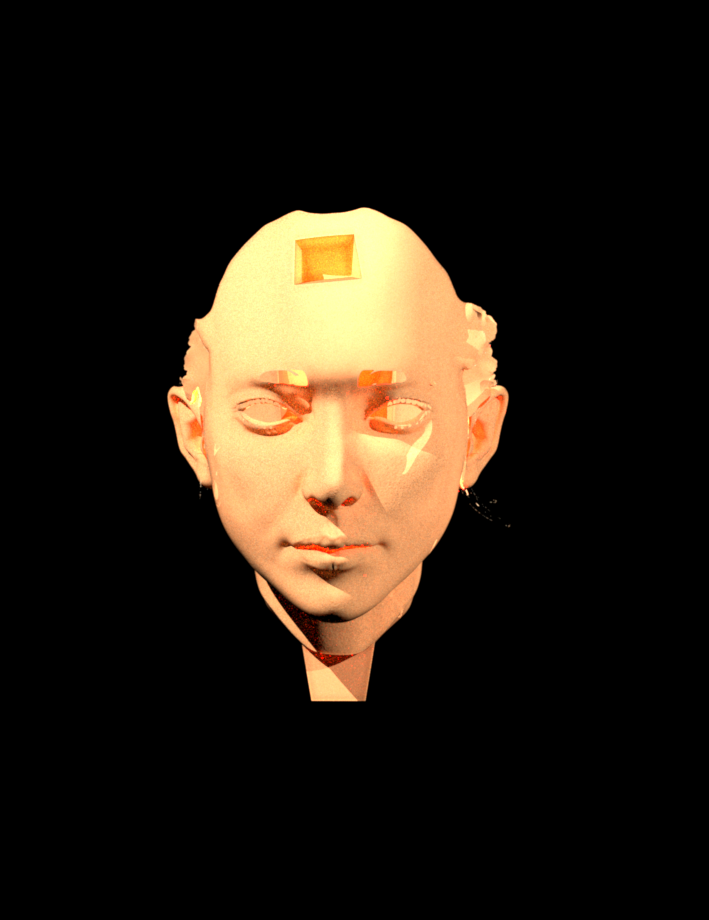
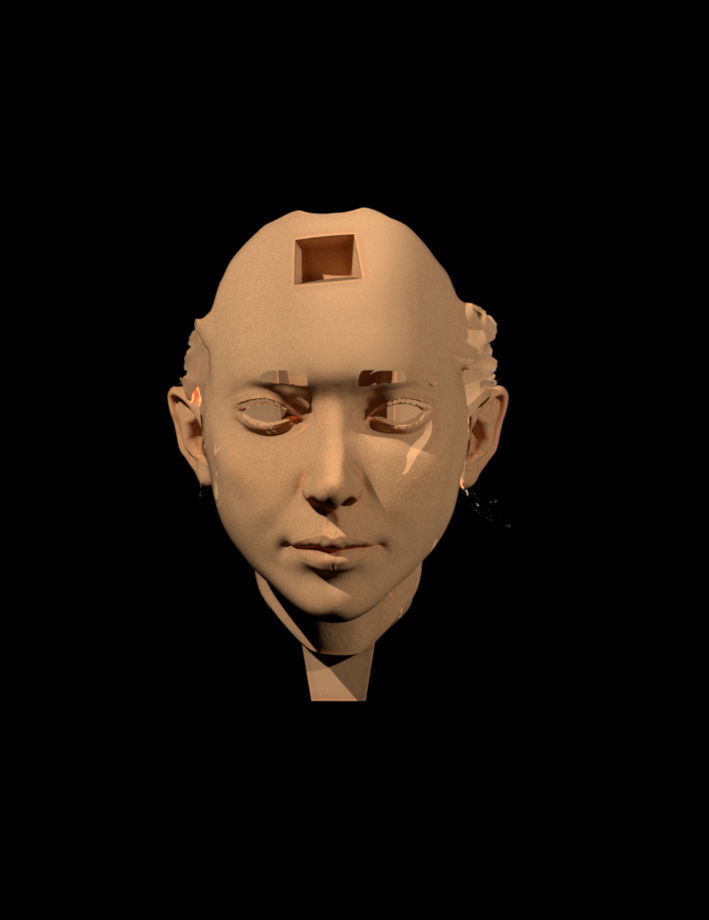
Honestly, fuck it

Changed region(s): [[0.2172, 0.213, 0.7137, 0.7609]]

diff --git a/src/subsurface.cpp b/src/subsurface.cpp
@@ -101,6 +101,8 @@ public:
     Color3f Sr_(float r) const
     {        
         // THIS FUNCTION HAS A SINGULARITY ON r=0????????
+        if (r < 1e-4)
+            return Color3f(1.0f);
 
         r *= 1000.0f; // Convert to mm
         //Color3f s = 3.5f + 100.0f * Math::pow4(R - 0.33f);
@@ -135,11 +137,8 @@ public:
         return r / 1000.0f; // Convert to meters
     }
 
-    float sampleSrPdf(float r, int channel) const
+    double sampleSrPdf(float r, int channel) const
     {
-        // We use dipole as pdf, although the sampling is for a different Sr function.
-        //  They are modeling the same effect so they are pretty close, 
-        //  so it is good enough for now
         return dipoleDiffusionAproximation(r)[channel];
     }
 
@@ -270,12 +269,12 @@ public:
 
         /*********************** Pdf *************************/
 
-        float pdf = pointPdf(bRec) * itsPdf;
+        double pdf = pointPdf(bRec) * itsPdf;
 
         return Color3f(1.0f / pdf);
     }
 
-    float pointPdf(const BSDFQueryRecord &bRec) const
+    double pointPdf(const BSDFQueryRecord &bRec) const
     {
         Vector3f d = bRec.po - bRec.pi;
         Vector3f l_d = bRec.fri.vtoLocal(d);
@@ -283,18 +282,18 @@ public:
 
         // Compute the radius that has been sampled for each axis
         //  (d projected into each axis)
-        float rProjected[3] = { std::sqrt(l_d.y()*l_d.y() + l_d.z()*l_d.z()),
+        double rProjected[3] = { std::sqrt(l_d.y()*l_d.y() + l_d.z()*l_d.z()),
                                 std::sqrt(l_d.z()*l_d.z() + l_d.x()*l_d.x()),
                                 std::sqrt(l_d.x()*l_d.x() + l_d.y()*l_d.y()) };
 
-        float pdf = 0, axisPdf[3] = { .25f, .25f, .5f };
-        float chProb = 1 / 3.0f; // 3 channels
+        double pdf = 0, axisPdf[3] = { .25f, .25f, .5f };
+        double chProb = 1 / 3.0f; // 3 channels
 
         for (int axis = 0; axis < 3; axis++)
         {
             for (int ch = 0; ch < 3; ch++)
             {
-                pdf += sampleSrPdf(rProjected[axis], ch) 
+                pdf += sampleSrPdf(rProjected[axis], ch)
                         * std::abs(l_n[axis]) 
                         * chProb * axisPdf[axis];
             }
